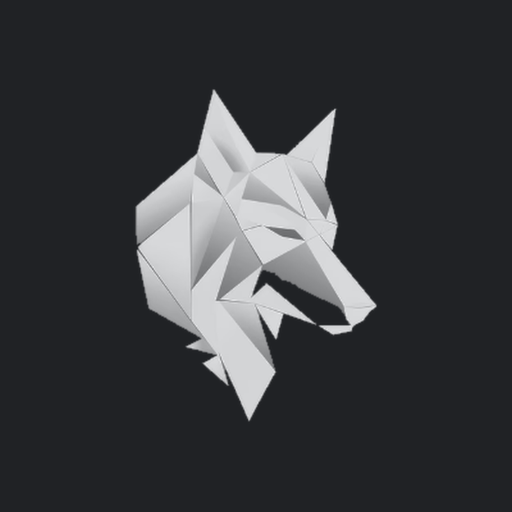
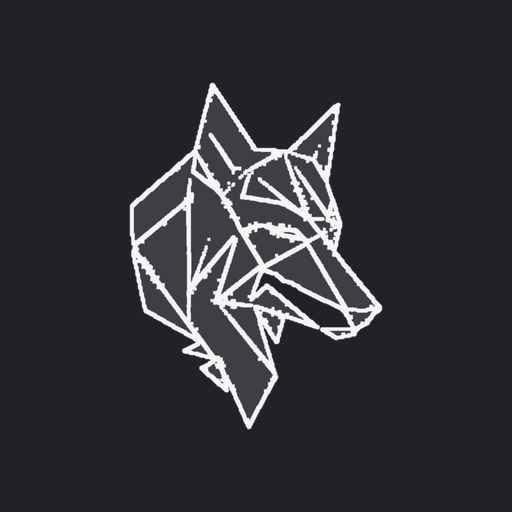
Draft brand: switch to linear wolf with faint fill (SW v194)

Changed region(s): [[0.25, 0.1562, 0.75, 0.8438]]

diff --git a/index.html b/index.html
@@ -49,7 +49,7 @@
 
     /* ═══ WATERMARK ═══ */
     .wm { position: fixed; inset: 0; display: grid; place-items: center; pointer-events: none; z-index: 0; }
-    .wm img { width: min(64vh, 72vw); height: auto; opacity: 0.07; }
+    .wm img { width: min(64vh, 72vw); height: auto; opacity: 0.16; }
     .page { position: relative; z-index: 1; }
 
     /* ═══ NAV ═══ */
@@ -647,6 +647,6 @@
   setTimeout(checkiOSInstall, 1000);
 })();
 </script>
-<script src="sw-register.js?v=193"></script>
+<script src="sw-register.js?v=194"></script>
 </body>
 </html>

diff --git a/sw.js b/sw.js
@@ -1,4 +1,4 @@
-const CACHE_NAME = 'nw-field-v193';
+const CACHE_NAME = 'nw-field-v194';
 const ASSETS = [
   './',
   './index.html',
